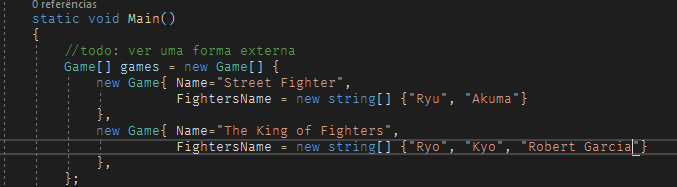
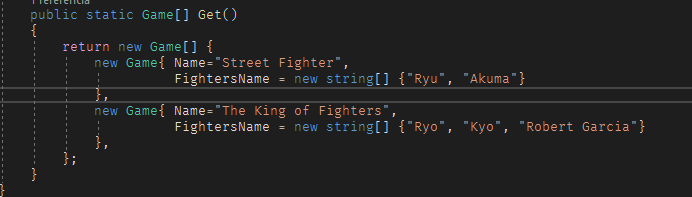
Ajuste final ( temporário )

diff --git a/FactoryUI/Program.cs b/FactoryUI/Program.cs
@@ -10,15 +10,7 @@ namespace FactoryUI
         [STAThread]
         static void Main()
         {
-            //todo: ver uma forma externa
-            Game[] games = new Game[] {
-                new Game{ Name="Street Fighter",
-                          FightersName = new string[] {"Ryu", "Akuma"} 
-                },
-                new Game{ Name="The King of Fighters",
-                          FightersName = new string[] {"Ryo", "Kyo", "Robert Garcia"} 
-                },
-            };
+            Game[] games = Games.Get(); 
             ApplicationConfiguration.Initialize();
             Application.Run(new FrmMain(games));
         }

diff --git a/FactoryLib/Games.cs b/FactoryLib/Games.cs
@@ -1,0 +1,17 @@
+namespace FactoryLib
+{
+    public static class Games
+    {
+        public static Game[] Get()
+        {
+            return new Game[] {
+                new Game{ Name="Street Fighter",
+                          FightersName = new string[] {"Ryu", "Akuma"}
+                },
+                new Game{ Name="The King of Fighters",
+                          FightersName = new string[] {"Ryo", "Kyo", "Robert Garcia"}
+                },
+            };
+        }
+    }
+}

diff --git a/README.md b/README.md
@@ -36,11 +36,10 @@ O objetivo principal é ter a flexibilidade de adicionar um novo personagem ou u
 - Clean Code
 - Null Object Pattern
 
-## Novas implementações
+## Melhorias que podem ser empregadas
 
-- [ ] Substituir código de tipo por classe
-- [ ] Remover hardcoded da lista de Game em Program
-- [ ] Adicionar um gif das funções
+- Substituir código de tipo por classe
+
 
 ## Referências
 
